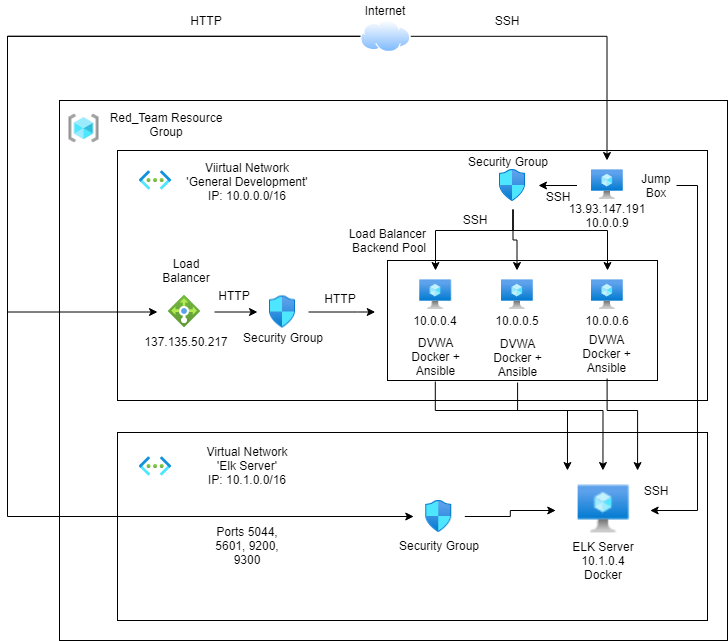
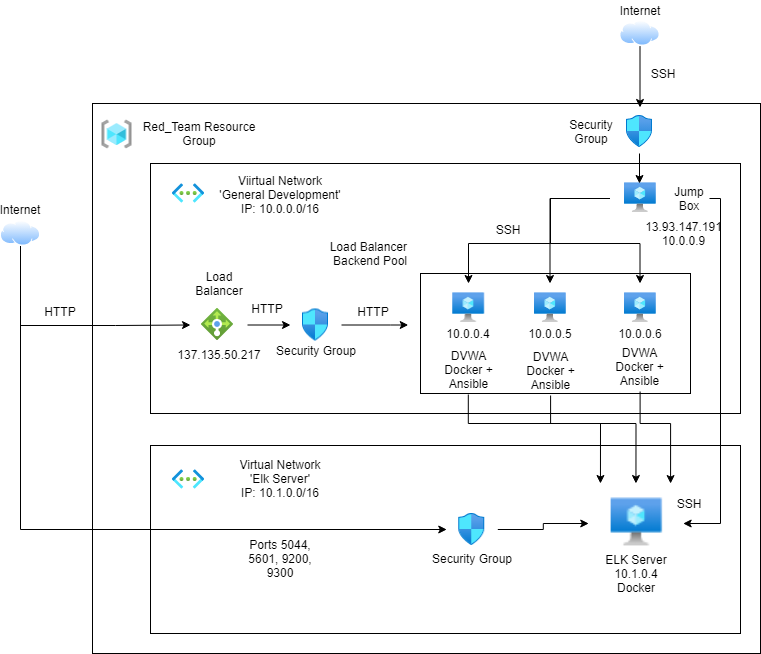
Updated network diagram/readme

diff --git a/README.md b/README.md
@@ -7,6 +7,9 @@ The files in this repository were used to configure the network depicted below.
 These files have been tested and used to generate a live ELK deployment on Azure. They can be used to either recreate the entire deployment pictured above. Alternatively, select portions of the yaml file may be used to install only certain pieces of it, such as Filebeat.
 
   - [Elk Deployment Playbook](./Ansible/Elk_VM_Docker.yml)
+  - [Web Docker Playbook](./Ansible/Web_VM_Docker.yml)
+  - [Metricbeat Playbook](./Ansible/metricbeat-playbook.yml)
+  - [Filbeat Playbook](./Ansible/filebeat-playbook.yml)
 
 This document contains the following details:
 - Description of the Topology
